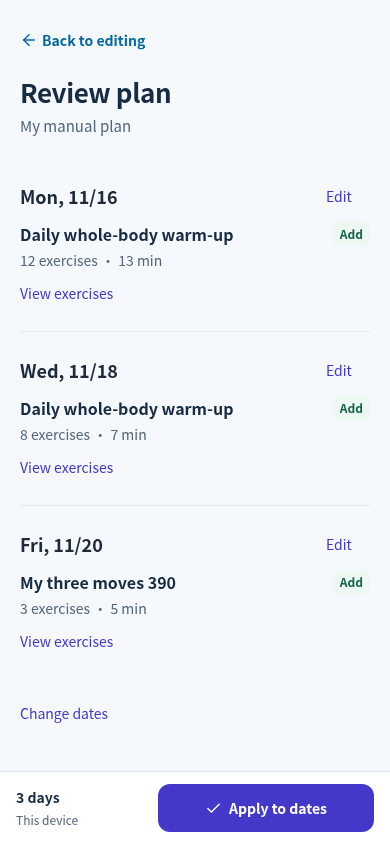
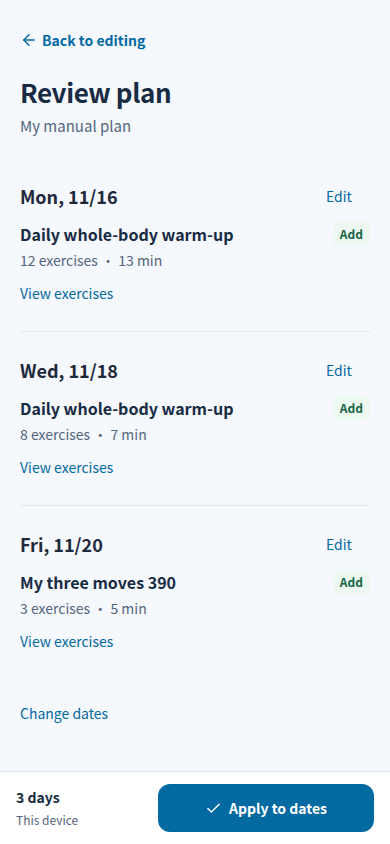
feat: elevate AI Coach to global header/sidebar, show masked API key, and sync CI smoke tests

diff --git a/src/App.jsx b/src/App.jsx
@@ -429,16 +429,16 @@ function FitnessApp({ account, calendar, publicDraft, onPublicDraft, pendingDraf
   const plannerActions = <header className="planner-home-heading" data-testid="planner-actions">
     <h2>{lang === 'zh' ? '本週安排' : 'This week’s plan'}</h2>
     <div className="planner-week-nav"><button type="button" aria-label={lang === 'zh' ? '查看前一週' : 'Previous week'} onClick={() => shiftOverviewWeek(-1)}><ChevronLeft size={21} /></button><strong>{dateForWeekDay(displayWeek, 1)?.slice(5).replace('-', '/')} — {dateForWeekDay(displayWeek, 7)?.slice(5).replace('-', '/')} · {lang === 'zh' ? `已安排 ${overviewCounts[displayWeek] ?? (displayWeek === currentWeek && weeklyPlan ? weeklyPlan.schedule.length : 0)} 天` : `${overviewCounts[displayWeek] ?? (displayWeek === currentWeek && weeklyPlan ? weeklyPlan.schedule.length : 0)} days planned`}</strong><button type="button" aria-label={lang === 'zh' ? '查看下一週' : 'Next week'} onClick={() => shiftOverviewWeek(1)}><ChevronRight size={21} /></button></div>
-    <div className="planner-create-actions"><button type="button" data-testid="open-manual-planner" onClick={() => openManual()} className="button-secondary"><Pencil size={18} />{lang === 'zh' ? '手動新增' : 'Create workout'}</button><button type="button" data-testid="open-auto-planner" onClick={openWeeklySelection} className="button-primary"><Sparkles size={18} />{lang === 'zh' ? '自動排課' : 'Auto plan'}</button></div>
+    <div className="planner-create-actions"><button type="button" data-testid="open-manual-planner" onClick={() => openManual()} className="button-secondary"><Pencil size={18} />{lang === 'zh' ? '手動新增' : 'Create workout'}</button><button type="button" data-testid="open-auto-planner" onClick={openWeeklySelection} className="button-primary"><Sparkles size={18} />{lang === 'zh' ? '自動排課' : 'Auto plan'}</button><button type="button" data-testid="plan-open-ai-coach" onClick={() => setCoachOpen(true)} className="coach-inline-button"><Sparkles size={18} aria-hidden="true" />{lang === 'zh' ? 'AI 教練' : 'AI Coach'}</button></div>
   </header>;
-  const plannerTools = <div className="planner-home-tools"><button type="button" data-testid="open-saved-workouts" onClick={() => dispatchNav({ type: 'SET_PLAN_SCREEN', screen: 'saved' })}><Bookmark size={18} />{lang === 'zh' ? '我的收藏' : 'My favorites'}</button><button type="button" data-testid="plan-open-ai-coach" onClick={() => setCoachOpen(true)}><Sparkles size={18} />{lang === 'zh' ? '✨ 問 AI 教練' : '✨ Ask AI Coach'}</button></div>;
+  const plannerTools = <div className="planner-home-tools"><button type="button" data-testid="open-saved-workouts" onClick={() => dispatchNav({ type: 'SET_PLAN_SCREEN', screen: 'saved' })}><Bookmark size={18} />{lang === 'zh' ? '我的收藏' : 'My favorites'}</button></div>;
   // A stable conversion prevents overview load -> parent update -> reload loops.
   const publicPeriodBase = useMemo(() => localPeriod || (!user ? periodFromWeeklyDraft(publicDraft) : null), [localPeriod, user, publicDraft]);
   const periodHistory = useMemo(() => ({ logs: exerciseLogs, progress: allProgress, readiness: readinessRecords }), [exerciseLogs, allProgress, readinessRecords]);
   const periodRefresh = useMemo(() => JSON.stringify({ progress: allProgress, logs: exerciseLogs, nativeSessions }), [allProgress, exerciseLogs, nativeSessions]);
   const renderPeriodWorkspace = () => <PeriodWorkspace key={`${user?.uid || 'public'}:${periodCreating ? 'create' : activeTab === 'plan' && dateOverview ? `${displayWeek}_${selectedPeriod?.periodId || ''}` : 'first'}`} uid={user?.uid} today={today} lang={lang} t={t} exercises={exercises} profile={profile} setProfile={setProfile} available={weeklyAvailable} onToggleWeekly={toggleWeeklyChoice} preserveCurrentChoices={choicesChanged.current} history={periodHistory} metrics={data.metrics} apiKey={apiKey} onSaveKey={saveKey} model={model} models={models} onSelectModel={selectModel} aiMember={aiMember} onSignIn={() => navigate('settings')} localPeriod={publicPeriodBase} onLocalPeriod={onLocalPeriod} onApplied={periodApplied} fallbackPlans={data.plans} refreshToken={periodRefresh} overview={periodCreating ? null : activeTab === 'plan' && dateOverview ? calendarPeriod : selectedPeriod} onClose={periodCreating ? () => dispatchNav({ type: 'CLOSE_PERIOD_CREATING' }) : undefined} onToday={() => navigate('train')} onSaveWorkout={day => dispatchNav({ type: 'SET_SAVE_WORKOUT_DAY', day })} onShare={shareDays} onOverviewLoaded={sessions => setOverviewCounts(previous => previous[displayWeek] === sessions.length ? previous : { ...previous, [displayWeek]: sessions.length })} onPlanDate={date => openManual([createManualSession(date, lang)], null, date, { single: true, add: true })} onEditWorkout={day => openManual(Array.isArray(day) ? day : [day], null, null, { single: !Array.isArray(day) })} onAddToDay={day => openManual([day], null, null, { single: true, add: true })} />;
   const openLegacyAI = () => { if (hasNativeWeek || editing || savingPlan || !user) return; dispatchNav({ type: 'OPEN_LEGACY_AI' }); setPlanningMode('byok'); setPlanningStep(0); setEditingAI(true); setLegacyPreview(null); };
-  const firstPlan = <section data-testid="first-plan" className="panel"><h2 className="text-xl font-bold text-slate-800">{lang === 'zh' ? '今天尚未安排訓練' : 'No workout today'}</h2><div className="day-actions"><button type="button" data-testid="today-create-workout" className="button-primary" onClick={() => openManual([createManualSession(today, lang)], null, today, { single: true, add: true })}>{lang === 'zh' ? '＋ 新增今天的動作' : '+ Add today’s exercises'}</button><button type="button" className="button-secondary" onClick={() => navigate('plan')}>{lang === 'zh' ? '查看課表' : 'View plan'}</button><button type="button" data-testid="open-ai-coach" className="button-secondary" onClick={() => setCoachOpen(true)}>{lang === 'zh' ? '✨ 問 AI 教練' : '✨ Ask AI Coach'}</button></div></section>;
+  const firstPlan = <section data-testid="first-plan" className="panel"><h2 className="text-xl font-bold text-slate-800">{lang === 'zh' ? '今天尚未安排訓練' : 'No workout today'}</h2><div className="day-actions"><button type="button" data-testid="today-create-workout" className="button-primary" onClick={() => openManual([createManualSession(today, lang)], null, today, { single: true, add: true })}>{lang === 'zh' ? '＋ 新增今天的動作' : '+ Add today’s exercises'}</button><button type="button" className="button-secondary" onClick={() => navigate('plan')}>{lang === 'zh' ? '查看課表' : 'View plan'}</button><button type="button" data-testid="open-ai-coach" className="coach-inline-button" onClick={() => setCoachOpen(true)}><Sparkles size={16} aria-hidden="true" />{lang === 'zh' ? '問 AI 教練' : 'Ask AI Coach'}</button></div></section>;
 
   useBackNavigation(activeTab !== 'train', () => {
     if (editing || savingPlan) { showToast(t('finishEditing')); return; }
@@ -457,7 +457,13 @@ function FitnessApp({ account, calendar, publicDraft, onPublicDraft, pendingDraf
   return <div className={`app-shell ${activeTab === 'plan' ? 'planner-scope' : ''} ${activeTab === 'plan' && (['manual', 'assign'].includes(planScreen) || periodCreating) ? 'planner-immersive' : ''}`}>
     {toast && <div role="status" className="pointer-events-none fixed top-4 left-1/2 -translate-x-1/2 z-50 bg-white border border-sky-200 shadow-xl rounded-xl px-5 py-3 flex gap-2 text-sm max-w-[90vw]"><Info size={18} className="shrink-0 text-sky-600" />{toast}</div>}
     <aside className="app-sidebar">
-      <header className="app-brand"><h1 className="brand-lockup"><span className="brand-mark"><Feather size={20} /></span>{t('appTitle')}</h1><button type="button" aria-current={activeTab === 'settings' ? 'page' : undefined} onClick={() => navigate('settings')} className="settings-button"><SettingsIcon size={16} />{t('accountSettings')}</button></header>
+      <header className="app-brand">
+        <h1 className="brand-lockup"><span className="brand-mark"><Feather size={20} /></span>{t('appTitle')}</h1>
+        <div className="app-brand-actions">
+          <button type="button" data-testid="global-ai-coach" onClick={() => setCoachOpen(true)} className="coach-header-button"><Sparkles size={16} aria-hidden="true" /><span>{lang === 'zh' ? 'AI 教練' : 'AI Coach'}</span></button>
+          <button type="button" aria-current={activeTab === 'settings' ? 'page' : undefined} onClick={() => navigate('settings')} className="settings-button"><SettingsIcon size={16} />{t('accountSettings')}</button>
+        </div>
+      </header>
       <nav aria-label={t('navigation')} className="app-nav">{tabs.map(([id, Icon, label]) => <button key={id} type="button" aria-current={activeTab === id ? 'page' : undefined} onClick={() => navigate(id)}><Icon size={21} />{t(label)}</button>)}</nav>
     </aside>
     <main className="app-main">
@@ -502,7 +508,7 @@ function FitnessApp({ account, calendar, publicDraft, onPublicDraft, pendingDraf
       {activeTab === 'plan' && planScreen === 'legacy-ai' && !hasNativeWeek && <Suspense fallback={<p role="status">{t('loadingPlan')}</p>}><p className="text-sm text-indigo-800 mb-4">{currentWeek} · {lang === 'zh' ? '進階 AI 排課僅適用本週週一至週五' : 'Advanced AI plans Monday–Friday of this week only'}</p><Coach lang={lang} exercises={exercises} available={weeklyAvailable} onToggleWeekly={toggleWeeklyChoice} step={planningStep} onStepChange={setPlanningStep} standalone onClose={() => dispatchNav({ type: 'SET_PLAN_SCREEN', screen: 'overview' })} t={t} mode={planningMode} setMode={setPlanningMode} trialAvailable={trialEnabled()} focus={focus} setFocus={setFocus} plan={weeklyPlan} editing={editingAI} setEditing={setEditingAI} generating={generating} apiKey={apiKey} goal={goal} setGoal={setGoal} time={time} setTime={setTime} message={message} setMessage={setMessage} context={planningContext} setContext={setPlanningContext} onGenerate={requestPlan} onRestore={restore} /></Suspense>}
       {activeTab === 'plan' && planScreen === 'legacy-preview' && legacyPreview && <Suspense fallback={<p role="status">{t('loadingPlan')}</p>}><WeeklyPlanPreview preview={legacyPreview} t={t} lang={lang} exercises={exercises} available={weeklyAvailable} today={today} onBack={() => { setLegacyPreview(null); setPlanningStep(2); dispatchNav({ type: 'SET_PLAN_SCREEN', screen: 'legacy-ai' }); }} onApply={applyPlanPreview} busy={savingPlan} stale={hasNativeWeek || legacyPreview.fingerprint !== legacyFingerprint} /></Suspense>}
       {showPlanArea && hasCurrentPlan && <>
-        {activeTab === 'train' && weekend && <section className="rounded-2xl border border-sky-100 bg-white p-6 space-y-3"><h2 className="font-bold">{t('noCourtWeekend')}</h2><p className="text-sm text-slate-500">{t('noCourtWeekendHint')}</p><div className="day-actions"><button type="button" onClick={() => navigate('plan')} className="button-primary">{t('planningTab')}</button><button type="button" data-testid="open-ai-coach" onClick={() => setCoachOpen(true)} className="button-secondary">{lang === 'zh' ? '✨ 問 AI 教練' : '✨ Ask AI Coach'}</button></div><button onClick={viewRecords} className="block text-sm text-sky-700">{t('viewRecords')}</button></section>}
+        {activeTab === 'train' && weekend && <section className="rounded-2xl border border-sky-100 bg-white p-6 space-y-3"><h2 className="font-bold">{t('noCourtWeekend')}</h2><p className="text-sm text-slate-500">{t('noCourtWeekendHint')}</p><div className="day-actions"><button type="button" onClick={() => navigate('plan')} className="button-primary">{t('planningTab')}</button><button type="button" data-testid="open-ai-coach" onClick={() => setCoachOpen(true)} className="coach-inline-button"><Sparkles size={16} aria-hidden="true" />{lang === 'zh' ? '問 AI 教練' : 'Ask AI Coach'}</button></div><button onClick={viewRecords} className="block text-sm text-sky-700">{t('viewRecords')}</button></section>}
       </>}
 
       {hasCurrentPlan && <div id="weekly-session-detail" hidden={!planLoaded || !showPlanArea || (activeTab === 'train' && weekend) || (activeTab === 'plan' && planScreen !== 'day')}>
@@ -540,6 +546,7 @@ function FitnessApp({ account, calendar, publicDraft, onPublicDraft, pendingDraf
             metrics={data.metrics}
             apiKey={apiKey}
             onSaveKey={saveKey}
+            onClearKey={clearKey}
             model={model}
             models={models}
             onSelectModel={selectModel}

diff --git a/src/services/aiMembership.js b/src/services/aiMembership.js
@@ -1,7 +1,4 @@
-import { getApp } from 'firebase/app';
 import { doc, onSnapshot } from 'firebase/firestore';
-import { connectFunctionsEmulator, getFunctions, httpsCallable } from 'firebase/functions';
-import { initializeAppCheck, ReCaptchaEnterpriseProvider } from 'firebase/app-check';
 import { auth, db } from './firebase.js';
 
 const env = import.meta.env || globalThis.process?.env || {};
@@ -50,34 +47,42 @@ export function subscribeAiMembership(uid, onChange) {
   );
 }
 
-function getMemberFunctions() {
-  if (functionsInstance) return functionsInstance;
-  const emulating = env.DEV && env.VITE_USE_FIREBASE_EMULATORS === 'true';
-  if (!appCheckInitialized && !emulating && env.VITE_RECAPTCHA_ENTERPRISE_SITE_KEY) {
-    appCheckInitialized = true;
-    try {
-      initializeAppCheck(getApp(), {
-        provider: new ReCaptchaEnterpriseProvider(env.VITE_RECAPTCHA_ENTERPRISE_SITE_KEY),
-        isTokenAutoRefreshEnabled: true,
-      });
-    } catch {
-      /* App Check may already be initialized by aiTrial.js */
+async function getMemberFunctions() {
+  const [{ getApp }, { connectFunctionsEmulator, getFunctions, httpsCallable }] = await Promise.all([
+    import('firebase/app'),
+    import('firebase/functions'),
+  ]);
+  if (!functionsInstance) {
+    const emulating = env.DEV && env.VITE_USE_FIREBASE_EMULATORS === 'true';
+    if (!appCheckInitialized && !emulating && env.VITE_RECAPTCHA_ENTERPRISE_SITE_KEY) {
+      appCheckInitialized = true;
+      try {
+        const { initializeAppCheck, ReCaptchaEnterpriseProvider } = await import('firebase/app-check');
+        initializeAppCheck(getApp(), {
+          provider: new ReCaptchaEnterpriseProvider(env.VITE_RECAPTCHA_ENTERPRISE_SITE_KEY),
+          isTokenAutoRefreshEnabled: true,
+        });
+      } catch {
+        /* App Check may already be initialized by aiTrial.js */
+      }
     }
+    functionsInstance = getFunctions(getApp(), env.VITE_AI_TRIAL_REGION || 'asia-east1');
+    if (emulating) connectFunctionsEmulator(functionsInstance, '127.0.0.1', 5001);
   }
-  functionsInstance = getFunctions(getApp(), env.VITE_AI_TRIAL_REGION || 'asia-east1');
-  if (emulating) connectFunctionsEmulator(functionsInstance, '127.0.0.1', 5001);
-  return functionsInstance;
+  return { functions: functionsInstance, httpsCallable };
 }
 
-function getMemberCallable() {
+async function getMemberCallable() {
   if (memberCallable) return memberCallable;
-  memberCallable = httpsCallable(getMemberFunctions(), 'requestMemberAiPeriodChunk', { timeout: 65000 });
+  const { functions, httpsCallable } = await getMemberFunctions();
+  memberCallable = httpsCallable(functions, 'requestMemberAiPeriodChunk', { timeout: 65000 });
   return memberCallable;
 }
 
-function getMemberCoachCallable() {
+async function getMemberCoachCallable() {
   if (memberCoachCallable) return memberCoachCallable;
-  memberCoachCallable = httpsCallable(getMemberFunctions(), 'requestMemberAiCoachReply', { timeout: 65000 });
+  const { functions, httpsCallable } = await getMemberFunctions();
+  memberCoachCallable = httpsCallable(functions, 'requestMemberAiCoachReply', { timeout: 65000 });
   return memberCoachCallable;
 }
 
@@ -108,7 +113,7 @@ export async function requestMemberAiPeriodChunk({
     throw new Error('AI_MEMBER_SIGN_IN_REQUIRED');
   }
   try {
-    const callable = getMemberCallable();
+    const callable = await getMemberCallable();
     const { data } = await callable({ prompt, includeReport: !!includeReport, model });
     if (signal?.aborted) throw new Error('ABORTED');
     if (!data || typeof data !== 'object') throw new Error('AI_EMPTY_RESPONSE');
@@ -133,7 +138,7 @@ export async function requestMemberAiCoachReply({
     throw new Error('AI_MEMBER_SIGN_IN_REQUIRED');
   }
   try {
-    const callable = getMemberCoachCallable();
+    const callable = await getMemberCoachCallable();
     const { data } = await callable({ systemContext, messages, model });
     if (signal?.aborted) throw new Error('ABORTED');
     const reply = typeof data?.reply === 'string' ? data.reply.trim() : '';

diff --git a/src/index.css b/src/index.css
@@ -25,10 +25,15 @@
 @layer components {
   .app-shell { min-height: 100dvh; padding-bottom: calc(90px + env(safe-area-inset-bottom)); }
   .app-sidebar { background: #fff; border-bottom: 1px solid var(--color-sky-100); }
-  .app-brand { padding: 19px 20px; display: flex; align-items: center; justify-content: space-between; gap: 16px; }
-  .brand-lockup { display: flex; align-items: center; gap: 10px; font-size: 15px; font-weight: 750; letter-spacing: -.3px; }
-  .brand-mark { width: 36px; height: 36px; display: grid; place-items: center; border-radius: 12px; color: white; background: var(--color-sky-600); }
-  .settings-button { display: flex; align-items: center; gap: 7px; min-height: 44px; padding: 8px 12px; border: 1px solid var(--color-sky-100); border-radius: 12px; font-size: 13px; color: var(--color-slate-600); }
+  .app-brand { padding: 14px 16px; display: flex; flex-wrap: wrap; align-items: center; justify-content: space-between; gap: 10px 12px; }
+  .brand-lockup { display: flex; align-items: center; gap: 10px; font-size: 15px; font-weight: 750; letter-spacing: -.3px; min-width: 0; }
+  .brand-mark { width: 36px; height: 36px; display: grid; place-items: center; border-radius: 12px; color: white; background: var(--color-sky-600); flex-shrink: 0; }
+  .app-brand-actions { display: flex; align-items: center; gap: 8px; flex-wrap: wrap; }
+  .coach-header-button { display: inline-flex; align-items: center; justify-content: center; gap: 6px; min-height: 44px; padding: 8px 13px; border: 1px solid var(--brand-soft-border); border-radius: 12px; background: var(--brand-soft); color: var(--brand-primary); font-size: 13px; font-weight: 700; white-space: nowrap; transition: background .15s, border-color .15s; }
+  .coach-header-button:hover:not(:disabled) { background: var(--brand-tint); border-color: var(--brand-accent); }
+  .coach-inline-button { display: inline-flex; justify-content: center; align-items: center; gap: 7px; min-height: 44px; padding: 10px 16px; border: 1px solid var(--brand-soft-border); border-radius: 12px; background: var(--brand-tint); color: var(--brand-primary); font-size: 14px; font-weight: 650; transition: background .15s, border-color .15s; }
+  .coach-inline-button:hover:not(:disabled) { background: var(--brand-soft); border-color: var(--brand-accent); }
+  .settings-button { display: flex; align-items: center; gap: 7px; min-height: 44px; padding: 8px 12px; border: 1px solid var(--color-sky-100); border-radius: 12px; font-size: 13px; color: var(--color-slate-600); white-space: nowrap; }
   .app-nav { position: fixed; z-index: 30; bottom: 0; left: 0; right: 0; display: flex; background: #fff; border-top: 1px solid var(--color-sky-100); padding: 8px 12px calc(8px + env(safe-area-inset-bottom)); }
   .app-nav button { display: flex; flex: 1; flex-direction: column; align-items: center; gap: 4px; padding: 8px; border-radius: 14px; color: var(--color-slate-500); font-size: 12px; min-height: 54px; }
   .app-nav button[aria-current="page"] { background: var(--color-sky-50); color: var(--color-sky-700); font-weight: 750; }
@@ -136,7 +141,9 @@
 @media (min-width: 1024px) {
   .app-shell { padding-bottom: 32px; padding-left: 232px; }
   .app-sidebar { position: fixed; inset: 0 auto 0 0; width: 232px; border-right: 1px solid var(--color-sky-100); border-bottom: 0; display: flex; flex-direction: column; }
-  .app-brand { padding: 32px 22px; flex-direction: column; align-items: flex-start; gap: 24px; }
+  .app-brand { padding: 28px 20px 18px; flex-direction: column; align-items: stretch; gap: 16px; }
+  .app-brand-actions { flex-direction: column; align-items: stretch; width: 100%; }
+  .coach-header-button, .settings-button { width: 100%; justify-content: flex-start; padding: 10px 14px; }
   .brand-lockup { font-size: 14px; }
   .app-nav { position: static; padding: 8px 14px; flex-direction: column; border: 0; gap: 6px; }
   .app-nav button { flex: none; flex-direction: row; justify-content: flex-start; gap: 13px; font-size: 14px; padding: 14px 18px; }

diff --git a/src/components/Training.jsx b/src/components/Training.jsx
@@ -2,7 +2,7 @@ import { completionKey } from '../domain/completionQueue.js';
 import { useBackNavigation } from '../hooks/useBackNavigation.js';
 import SessionTimeSummary from './SessionTimeSummary.jsx';
 import { lazy, Suspense, useState } from 'react';
-import { ArrowDown, ArrowRight, ArrowUp, Brain, Check, CheckCircle2, Circle, Edit2, Feather, Loader2, Plus, RotateCcw, Save, SlidersHorizontal, Trash2, X } from 'lucide-react';
+import { ArrowDown, ArrowRight, ArrowUp, Brain, Check, CheckCircle2, Circle, Edit2, Feather, Loader2, Plus, RotateCcw, Save, SlidersHorizontal, Sparkles, Trash2, X } from 'lucide-react';
 import { journeyText } from '../i18n/journey.js';
 import { dateForWeekDay, getDateForWeekDay, localDate } from '../domain/dates.js';
 import { exerciseKey } from '../domain/training.js';
@@ -113,7 +113,7 @@ export default function Training({ t, lang = 'zh', schedule, draft, activeDay, s
       {(onQuickSaveDay || onAddToDay) && <button type="button" data-testid="day-add-exercise" disabled={busy || saving || quickSaving || date < today} onClick={() => { if (onQuickSaveDay) { setQuickError(''); setQuickPickerOpen(true); } else { onAddToDay(active); } }} className="button-secondary"><Plus size={16} aria-hidden="true" />{en ? 'Add exercise' : '新增動作'}</button>}
       {onQuickSaveDay && !rest && <button type="button" data-testid="day-quick-edit" aria-pressed={quickEdit} disabled={busy || saving || quickSaving || date < today} onClick={() => { setQuickError(''); setQuickEditScope(quickEdit ? '' : scope); }} className={quickEdit ? 'button-primary' : 'button-secondary'}>{quickEdit ? <><Check size={16} aria-hidden="true" />{en ? 'Done' : '完成增減'}</> : <><SlidersHorizontal size={15} aria-hidden="true" />{en ? '+/- Exercises' : '± 增減動作'}</>}</button>}
       {onManualEdit && <button type="button" data-testid="day-edit" disabled={busy || saving || quickSaving || date < today} onClick={() => onManualEdit(active)} className="button-secondary">{en ? 'Edit doses' : '調整組次'}</button>}
-      {onOpenCoach && <button type="button" data-testid="open-ai-coach" disabled={busy || saving} onClick={onOpenCoach} className="button-secondary">{en ? '✨ Ask AI Coach' : '✨ 問 AI 教練'}</button>}
+      {onOpenCoach && <button type="button" data-testid="open-ai-coach" disabled={busy || saving} onClick={onOpenCoach} className="coach-inline-button"><Sparkles size={16} aria-hidden="true" />{en ? 'Ask AI Coach' : '問 AI 教練'}</button>}
       <details className="day-more"><summary>{en ? 'More' : '更多'}</summary><div><details className="day-time-details"><summary>{en ? 'Timing details' : '時間與安排說明'}</summary><SessionTimeSummary day={active} exercises={exercises} availableTime={plannedTime} context={coachingContext} lang={lang} /></details>{onSaveWorkout && <button type="button" data-testid="save-day-workout" disabled={busy || saving} onClick={() => onSaveWorkout(active)} className="text-link">{en ? 'Save workout' : '收藏這天'}</button>}{onShare && <button type="button" disabled={busy || saving} onClick={() => onShare(active)} className="text-link">{en ? 'Share workout' : '分享這天'}</button>}</div></details>
     </div>}
     {quickEdit && <div className="quick-edit-banner" role="status" data-testid="quick-edit-banner">

diff --git a/src/components/AICoachDrawer.jsx b/src/components/AICoachDrawer.jsx
@@ -70,6 +70,12 @@ function coachErrorMessage(code, lang) {
     : '目前無法取得 AI 教練回覆，請稍後再試。';
 }
 
+function maskApiKey(key) {
+  const clean = String(key || '').trim();
+  if (clean.length <= 8) return clean ? '••••' : '';
+  return `${clean.slice(0, 4)}…${clean.slice(-4)}`;
+}
+
 export default function AICoachDrawer({
   open,
   onClose,
@@ -84,6 +90,7 @@ export default function AICoachDrawer({
   metrics = [],
   apiKey = '',
   onSaveKey,
+  onClearKey,
   model = 'gemini-2.5-flash',
   models = [],
   onSelectModel,
@@ -345,7 +352,9 @@ export default function AICoachDrawer({
             <div className="ai-coach-auth-row" data-testid="coach-byok-ready">
               <span className="ai-coach-byok-ready">
                 <KeyRound size={14} aria-hidden="true" />
-                {en ? 'Browser Google API Key ready' : '已連結本機 Google API Key'}
+                {en
+                  ? `Saved browser key (${maskApiKey(apiKey)})`
+                  : `使用本機已存 API Key（${maskApiKey(apiKey)}）`}
               </span>
               <select
                 data-testid="coach-model-select"
@@ -366,6 +375,21 @@ export default function AICoachDrawer({
               >
                 {en ? 'Change key' : '更換金鑰'}
               </button>
+              {onClearKey && (
+                <button
+                  type="button"
+                  data-testid="coach-clear-key"
+                  className="text-link text-xs min-h-11"
+                  disabled={busy}
+                  onClick={() => {
+                    onClearKey();
+                    setShowKeyEditor(false);
+                    setError('');
+                  }}
+                >
+                  {en ? 'Clear key' : '清除金鑰'}
+                </button>
+              )}
             </div>
           ) : (
             <div className="ai-coach-key-form" data-testid="coach-inline-key-box">

diff --git a/src/components/SessionPlanEditor.jsx b/src/components/SessionPlanEditor.jsx
@@ -82,7 +82,7 @@ export default function SessionPlanEditor({ session, exercises = {}, eligibleExe
             {isLocked ? (
               <span className="exercise-row-locked" title={en ? 'Recorded — preserved' : '已有紀錄，自動保留'}><Lock size={14} aria-hidden="true" /></span>
             ) : (
-              <button type="button" data-testid={`manual-quick-remove-${dose.id}`} className="manual-row-quick-remove" aria-label={`${en ? 'Remove' : '移除'} ${rowName}`} onClick={() => remove(dose.id)}><Minus size={17} aria-hidden="true" /></button>
+              <button type="button" data-testid={`manual-quick-remove-${dose.id}`} className="manual-row-quick-remove" aria-label={`${en ? 'Quick remove' : '快速移除'} ${rowName}`} onClick={() => remove(dose.id)}><Minus size={17} aria-hidden="true" /></button>
             )}
           </li>;
         })}</ol>

diff --git a/src/components/PeriodWorkspace.jsx b/src/components/PeriodWorkspace.jsx
@@ -645,7 +645,9 @@ export default function PeriodWorkspace({
                 <div className="period-ai-controls">
                   <span className="text-xs font-semibold text-sky-800 inline-flex items-center gap-1" data-testid="period-byok-ready">
                     <KeyRound size={14} />
-                    {en ? 'Google API Key saved in this browser' : '已連結本機 Google API Key'}
+                    {en
+                      ? `Saved browser key (${apiKey.trim().length > 8 ? `${apiKey.trim().slice(0, 4)}…${apiKey.trim().slice(-4)}` : '••••'})`
+                      : `已連結本機 API Key（${apiKey.trim().length > 8 ? `${apiKey.trim().slice(0, 4)}…${apiKey.trim().slice(-4)}` : '••••'}）`}
                   </span>
                   <select
                     data-testid="period-ai-model"
